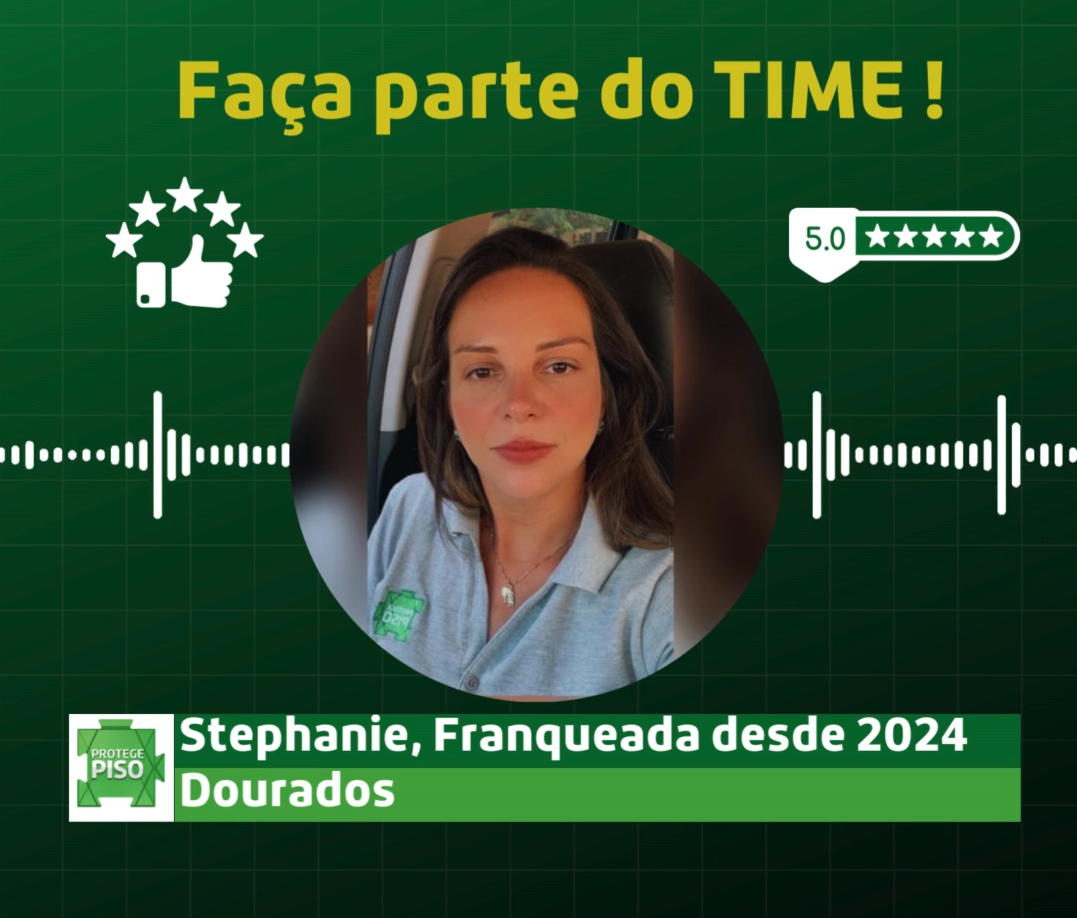
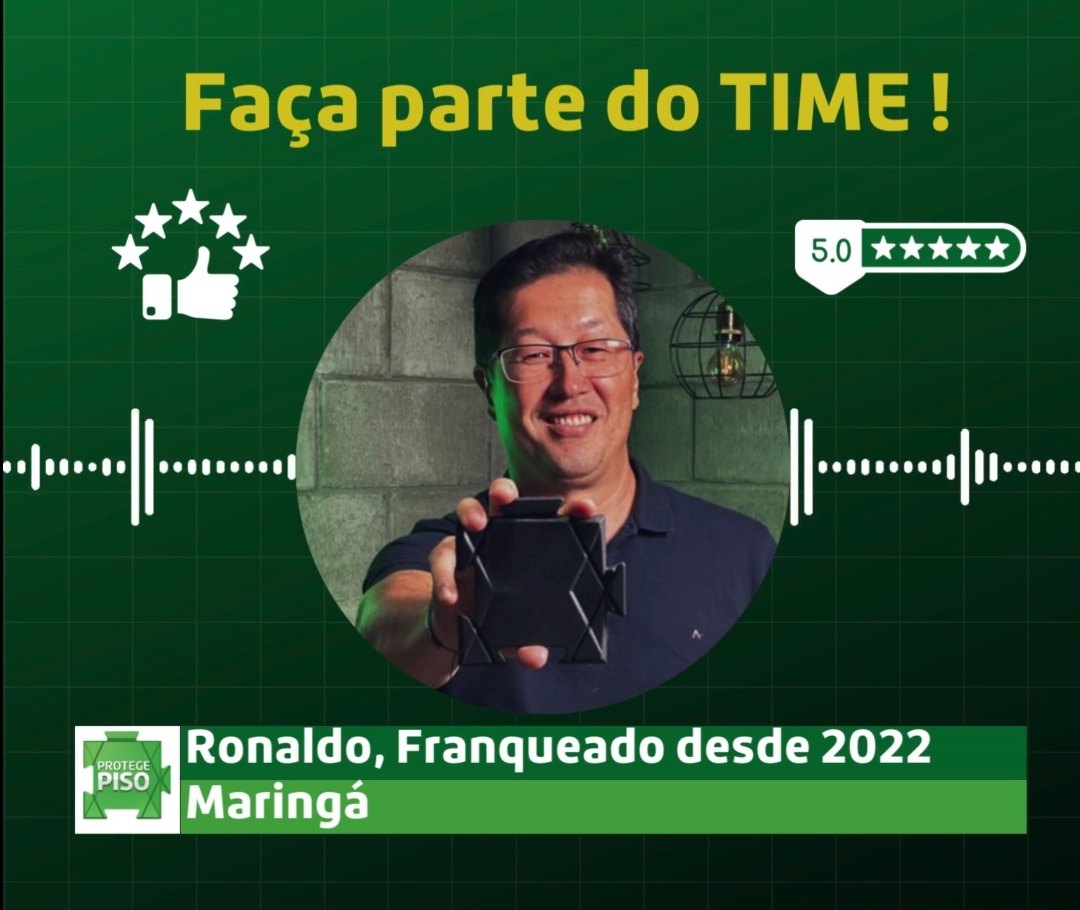
first commit maringa

diff --git a/index.html b/index.html
@@ -5,7 +5,7 @@
     <meta charset="UTF-8">
     <meta name="viewport" content="width=device-width, initial-scale=1.0">
     <meta name="Landing Page" content="Website da franquia da protege piso de Palmas">
-    <title>Protege Piso Dourados</title>
+    <title>Protege Piso Maringá</title>
     <link rel="stylesheet" href="styles.css">
     <link rel="stylesheet" href="https://cdn.jsdelivr.net/npm/glider-js@1/glider.min.css">
     <script src="https://cdn.jsdelivr.net/npm/glider-js@1/glider.min.js"></script>
@@ -31,7 +31,7 @@
                 <div class="navbar-container">
                     <a href="#" class="logo">
                         <img src="./images/logoprotege.png" alt="Logo da protege piso">
-                        <h3>Dourados</h3>
+                        <h3>Maringá</h3>
                     </a>
 
                     <div class="menu-toggle" id="mobile-menu" onclick="toggleMenu()">
@@ -45,7 +45,7 @@
                         <li class="nav-item"><a href="#Informacoes" class="nav-link">Informações</a></li>
                         <li class="nav-item"><a href="#" class="nav-link" id="openChatBtn">Seja um franqueado</a></li>
                         <li class="nav-item">
-                            <a href="https://api.whatsapp.com/send?phone=5567999744817" target="_blank">
+                            <a href="https://api.whatsapp.com/send?phone=5544920015477" target="_blank">
                                 <img src="images/icone_whatsapp.png" alt="icone logo whatsapp" class="whatsapp-icon-nav"
                                     style="margin-right: 10px;">
                             </a>
@@ -172,7 +172,7 @@
             </p>
         </div>
         <div class="container-iframe">
-            <iframe src="https://app.ketzim.com/webservice/mapa/dourados/" class="iframe-full" title="Mapa das obras realizadas na cidade da franquia"></iframe>
+            <iframe src="https://app.ketzim.com/webservice/mapa/maringa/" class="iframe-full" title="Mapa das obras realizadas na cidade da franquia"></iframe>
         </div>
     </section>
 
@@ -185,7 +185,7 @@
                 <p id="followers"></p>
                 <p id="posts"></p>
             </div>
-            <a href="https://www.instagram.com/ProtegePisoDourados/" target="_blank"><button type="button"
+            <a href="https://www.instagram.com/ProtegePisoMaringa/" target="_blank"><button type="button"
                     class="botao-seguir">Seguir</button></a>
         </div>
         <div class="glider-contain-custom">
@@ -197,7 +197,7 @@
     </section>
 
     <section class="container-quem-somos" id="QuemSomos">
-        <h3>EM DOURADOS DESDE 2024</h3>
+        <h3>EM DOURADOS DESDE 2022</h3>
         <img src="images/na_cidade_desde.PNG" class="imagem-quem-somos" alt="imagem do franqueado">
     </section>
 
@@ -208,20 +208,20 @@
 
         <div class="rodape-informacoes">
             <h5>Franquia</h5>
-            <p>dourados@protegepiso.com.br</p>
+            <p>maringa@protegepiso.com.br</p>
             <div class="item-rodape">
-                <a href="https://api.whatsapp.com/send?phone=5512981012640" target="_blank">
+                <a href="https://api.whatsapp.com/send?phone=5544920015477" target="_blank">
                     <img src="images/icone_whatsapp.png" alt="icone logo whatsapp"
                         class="rodape-informacoes-icone-whatsapp">
                 </a>
-                <p>(67) 99974-4817</p>
+                <p>(44) 92001-5477</p>
             </div>
             <div class="item-rodape">
-                <a href="https://www.instagram.com/protegepisodourados/" target="_blank">
+                <a href="https://www.instagram.com/protegepisomaringa/" target="_blank">
                     <img src="images/icone_instagram.png" alt="icone logo instagram"
                         class="rodape-informacoes-icone-instagram">
                 </a>
-                <p>@protegepisodourados
+                <p>@protegepisomaringa
                 </p>
             </div>
         </div>

diff --git a/index.js b/index.js
@@ -39,7 +39,7 @@ function toggleMenu() {
     menu.classList.toggle('active');
 }
 
-const apiUrl = 'https://app.ketzim.com/webservice/get-instagram-info/SaoJoseDosCampos/?Token=Ld7gRCo9JtIRw0Ub3sC3JxuCgIMvSAzJEMLSutCPh9XosGzzqpdlhsqhUYXHHRyHKPZ6MHcwfl8Dl7ohzsKv7jpihquxHvFmEkFJ';
+const apiUrl = 'https://app.ketzim.com/webservice/get-instagram-info/ProtegePisoMaringa/?Token=Ld7gRCo9JtIRw0Ub3sC3JxuCgIMvSAzJEMLSutCPh9XosGzzqpdlhsqhUYXHHRyHKPZ6MHcwfl8Dl7ohzsKv7jpihquxHvFmEkFJ';
 
 function displayUserProfile(profile) {
     document.getElementById('profile-picture').src = profile.profile_picture_url;
@@ -134,7 +134,7 @@ function waitForJivoChat() {
 waitForJivoChat();
 
 const iframeContainer = document.querySelector('.container-iframe');
-const iframeUrl = 'https://app.ketzim.com/webservice/mapa/saojosedoscampos/';
+const iframeUrl = 'https://app.ketzim.com/webservice/mapa/maringa/';
 
 
 fetch(iframeUrl)
